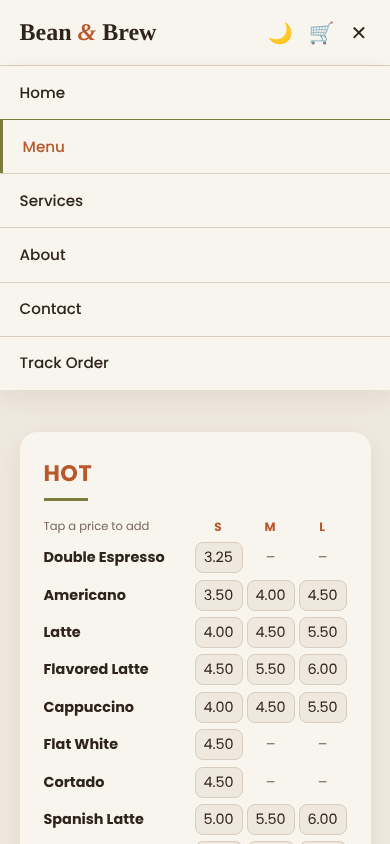
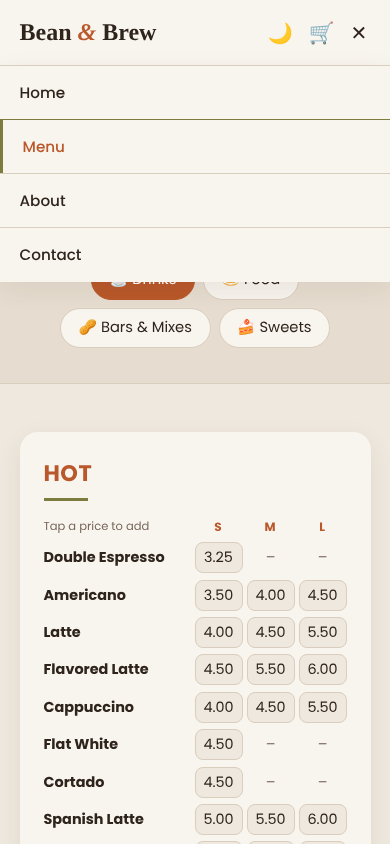
Update README and screenshots for new page layout
Claude-Session: https://claude.ai/code/session_01LR3cw2SpXsWQ5PTJ6R9Kn3

Changed region(s): [[0.0, 0.2773, 1.0, 0.4621], [0.0308, 0.2156, 0.2154, 0.2464]]

diff --git a/README.md b/README.md
@@ -14,10 +14,9 @@ Bean & Brew is a frontend web application for a specialty coffee shop. It solves
 for busy customers: waiting in line to read the menu and order. With the website, a customer can:
 
 - Browse the full café menu (120+ items) by category, with Small / Medium / Large prices for drinks
-- Search the whole menu for an item
 - Add items to a cart, change quantities and place an order as **takeaway** or **dine-in**
-- Get an order number and **track the order live** (Received → Preparing → Ready → Completed)
-- Read about the café's services, story and opening hours, and send a message through a validated contact form
+- Get an order number and **follow the order live** (Received → Preparing → Ready → Completed)
+- Read about the café and send a message through a validated contact form
 
 The site is fully responsive (desktop, tablet and phone) and has a light and dark mode.
 
@@ -26,20 +25,17 @@ The site is fully responsive (desktop, tablet and phone) and has a light and dar
 | Route | Page | Type |
 |---|---|---|
 | `/` | Home | Static |
-| `/menu` | Menu overview and search | Static |
-| `/menu/:categoryId` | Menu category (drinks, food, healthy, sweets) | **Dynamic** |
-| `/services` | Services / features and opening hours | Static |
+| `/menu/:categoryId` | Menu with tabs for drinks, food, bars & mixes, sweets (`/menu` opens drinks) | **Dynamic** |
 | `/about` | About the café | Static |
 | `/contact` | Contact info and form with validation | Static |
 | `/cart` | Cart and checkout | Interactive |
-| `/track` | Find an order by number | Interactive |
-| `/order/:orderId` | Live status of one order | **Dynamic** |
+| `/order/:orderId` | Live status of one order, shown after checkout | **Dynamic** |
 | `*` | 404 page | Static |
 
 ## Technologies
 
 - **React 18** (functional components and hooks: `useState`, `useEffect`, `useContext`)
-- **React Router 6** (`HashRouter`, dynamic routes with `useParams`, `useNavigate`)
+- **React Router 6** (`HashRouter`, dynamic routes with `useParams`, `useNavigate`, `Navigate`)
 - **Context API** for the shared shopping cart
 - **localStorage** to keep the cart, orders and theme after a refresh
 - **Vite** for the dev server and build
@@ -79,7 +75,7 @@ bean-and-brew/
 │   ├── components/             Navbar, Footer, PageHeader, MenuSection, Extras
 │   ├── context/CartContext.jsx Shared cart state (Context API)
 │   ├── data/menu.js            All menu sections, items, prices and categories
-│   ├── pages/                  One file per page (Home, Menu, Category, Services, ...)
+│   ├── pages/                  One file per page (Home, Category, About, Contact, Cart, ...)
 │   ├── utils/orders.js         Save, find and track orders
 │   ├── App.jsx                 Layout and routes
 │   ├── main.jsx                Entry point (router + cart provider)
@@ -95,13 +91,13 @@ bean-and-brew/
 |---|---|
 | ![Drinks](screenshots/category-drinks.png) | ![Cart](screenshots/cart.png) |
 
-| Order tracking (dynamic page) | Services |
+| Order status (dynamic page) | Contact |
 |---|---|
-| ![Tracking](screenshots/order-tracking.png) | ![Services](screenshots/services.png) |
+| ![Order status](screenshots/order-tracking.png) | ![Contact](screenshots/contact.png) |
 
-| About | Contact |
+| About | Sweets tab |
 |---|---|
-| ![About](screenshots/about.png) | ![Contact](screenshots/contact.png) |
+| ![About](screenshots/about.png) | ![Sweets](screenshots/category-sweets.png) |
 
 | Dark mode | Mobile |
 |---|---|
